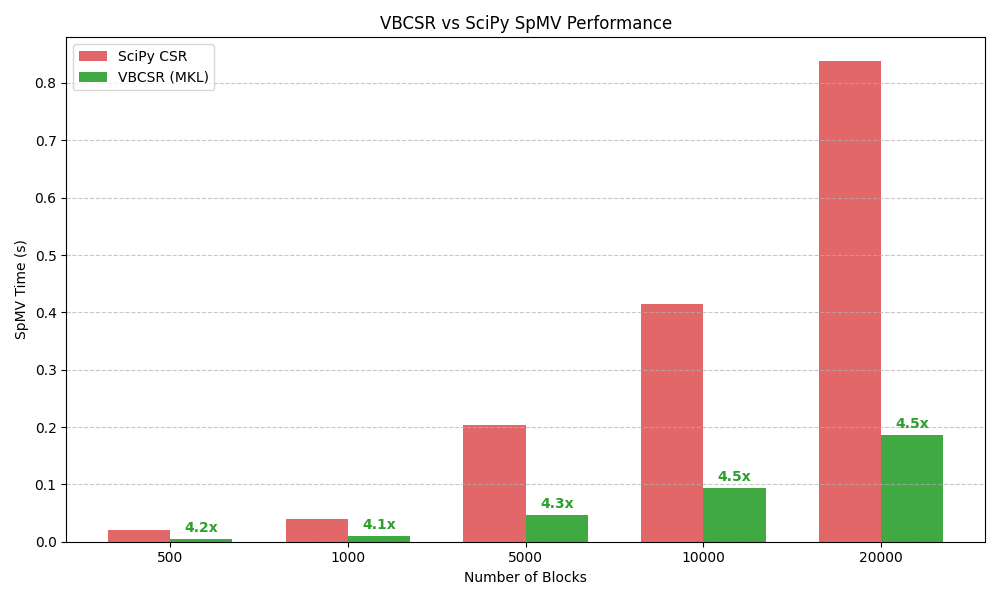
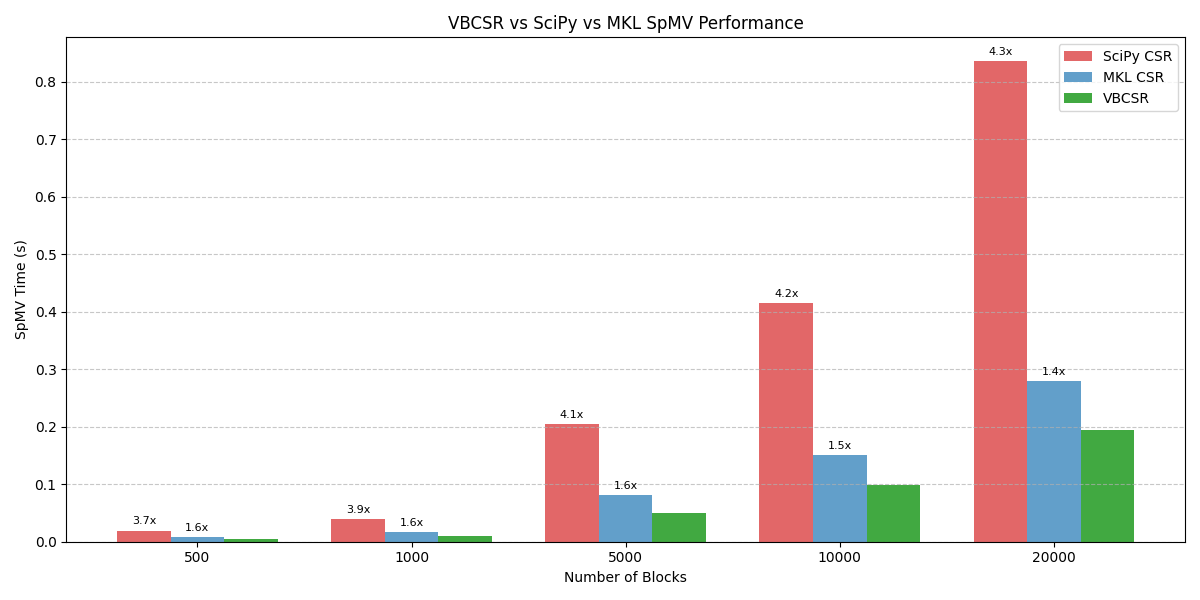
update benchmark to include direct MKL comparison

diff --git a/generate_benchmark_report.py b/generate_benchmark_report.py
@@ -9,13 +9,14 @@ def run_benchmark(blocks):
     if density * blocks**2 <= 1:
         density = 0.01
 
+    import sys
     cmd = [
-        "python", "tests/benchmark_large_scale.py",
+        sys.executable, "tests/benchmark_large_scale.py",
         "--blocks", str(blocks),
         "--min-block", "16",
         "--max-block", "20",
         "--density", str(density),
-        "--scipy"
+        "--scipy", "--mkl"
     ]
     env = os.environ.copy()
     env["PYTHONPATH"] = f"{env.get('PYTHONPATH', '')}:{os.getcwd()}:{os.getcwd()}/build"
@@ -26,50 +27,69 @@ def run_benchmark(blocks):
     # Parse output
     vbcsr_time = float(re.search(r"VBCSR Average SpMV Time: ([\d\.]+) s", output).group(1))
     scipy_time = float(re.search(r"SciPy Average SpMV Time: ([\d\.]+) s", output).group(1))
-    speedup = float(re.search(r"Speedup \(SciPy / VBCSR\): ([\d\.]+)x", output).group(1))
+    mkl_time = float(re.search(r"MKL Average SpMV Time: ([\d\.]+) s", output).group(1))
     
-    return vbcsr_time, scipy_time, speedup
+    scipy_speedup = float(re.search(r"Speedup \(SciPy / VBCSR\): ([\d\.]+)x", output).group(1))
+    mkl_speedup = float(re.search(r"Speedup \(MKL / VBCSR\): ([\d\.]+)x", output).group(1))
+    
+    return vbcsr_time, scipy_time, mkl_time, scipy_speedup, mkl_speedup
 
 def main():
     block_counts = [500, 1000, 5000, 10000, 20000]
     vbcsr_times = []
     scipy_times = []
-    speedups = []
+    mkl_times = []
+    scipy_speedups = []
+    mkl_speedups = []
     
     print("Running benchmarks...")
     for b in block_counts:
         print(f"  Blocks: {b}...", end="", flush=True)
-        vt, st, su = run_benchmark(b)
+        vt, st, mt, ss, ms = run_benchmark(b)
         vbcsr_times.append(vt)
         scipy_times.append(st)
-        speedups.append(su)
-        print(f" Done. Speedup: {su:.2f}x")
+        mkl_times.append(mt)
+        scipy_speedups.append(ss)
+        mkl_speedups.append(ms)
+        print(f" Done. SciPy Speedup: {ss:.2f}x, MKL Speedup: {ms:.2f}x")
         
     # Plotting
-    fig, ax = plt.subplots(figsize=(10, 6))
+    fig, ax = plt.subplots(figsize=(12, 6))
     
     x = np.arange(len(block_counts))
-    width = 0.35
+    width = 0.25
     
-    rects1 = ax.bar(x - width/2, scipy_times, width, label='SciPy CSR', color='tab:red', alpha=0.7)
-    rects2 = ax.bar(x + width/2, vbcsr_times, width, label='VBCSR (MKL)', color='tab:green', alpha=0.9)
+    rects1 = ax.bar(x - width, scipy_times, width, label='SciPy CSR', color='tab:red', alpha=0.7)
+    rects2 = ax.bar(x, mkl_times, width, label='MKL CSR', color='tab:blue', alpha=0.7)
+    rects3 = ax.bar(x + width, vbcsr_times, width, label='VBCSR', color='tab:green', alpha=0.9)
     
     ax.set_xlabel('Number of Blocks')
     ax.set_ylabel('SpMV Time (s)')
-    ax.set_title('VBCSR vs SciPy SpMV Performance')
+    ax.set_title('VBCSR vs SciPy vs MKL SpMV Performance')
     ax.set_xticks(x)
     ax.set_xticklabels(block_counts)
     ax.legend()
     ax.grid(True, axis='y', linestyle='--', alpha=0.7)
     
-    # Add speedup labels
-    for i, rect in enumerate(rects2):
-        height = rect.get_height()
-        ax.annotate(f'{speedups[i]:.1f}x',
-                    xy=(rect.get_x() + rect.get_width() / 2, height),
-                    xytext=(0, 3),  # 3 points vertical offset
-                    textcoords="offset points",
-                    ha='center', va='bottom', fontweight='bold', color='tab:green')
+    # Add speedup labels for VBCSR relative to others? Or just show times.
+    # Let's annotate VBCSR bars with speedup vs SciPy and MKL
+    # Actually, usually speedup is shown as text or separate plot.
+    # Let's just put speedup numbers on top of VBCSR bar?
+    # Or maybe just print them in table.
+    # Let's put speedup vs SciPy on top of SciPy bar, and vs MKL on top of MKL bar?
+    # No, speedup is usually X / VBCSR. So if SciPy is slower, speedup > 1.
+    
+    def autolabel(rects, speedups):
+        for i, rect in enumerate(rects):
+            height = rect.get_height()
+            ax.annotate(f'{speedups[i]:.1f}x',
+                        xy=(rect.get_x() + rect.get_width() / 2, height),
+                        xytext=(0, 3),
+                        textcoords="offset points",
+                        ha='center', va='bottom', fontsize=8)
+
+    autolabel(rects1, scipy_speedups)
+    autolabel(rects2, mkl_speedups)
 
     plt.tight_layout()
     plt.savefig('benchmark_performance.png')
@@ -78,18 +98,18 @@ def main():
     # Generate Markdown Report
     with open("benchmark_report.md", "w") as f:
         f.write("# VBCSR Performance Benchmark\n\n")
-        f.write("Comparison of Matrix-Vector Multiplication (SpMV) performance between `vbcsr` (with MKL) and `scipy.sparse.csr_matrix`.\n\n")
+        f.write("Comparison of Matrix-Vector Multiplication (SpMV) performance between `vbcsr`, `scipy.sparse.csr_matrix`, and `sparse_dot_mkl`.\n\n")
         f.write("## Test Configuration\n")
         f.write("- **Block Size**: Random [16, 20]\n")
         f.write("- **Density**: Adaptive (ensuring ~200 non-zeros per row)\n")
         f.write("- **Data Type**: float64\n")
         f.write("- **System**: Linux, MKL Backend\n\n")
         f.write("## Results\n\n")
-        f.write("| Blocks | Approx Rows | VBCSR Time (s) | SciPy Time (s) | Speedup |\n")
-        f.write("|--------|-------------|----------------|----------------|---------|\n")
+        f.write("| Blocks | Approx Rows | VBCSR (s) | SciPy (s) | MKL (s) | SciPy Speedup | MKL Speedup |\n")
+        f.write("|--------|-------------|-----------|-----------|---------|---------------|-------------|\n")
         for i, b in enumerate(block_counts):
             rows = b * 18 # Approx mean block size
-            f.write(f"| {b} | ~{rows} | {vbcsr_times[i]:.4f} | {scipy_times[i]:.4f} | **{speedups[i]:.2f}x** |\n")
+            f.write(f"| {b} | ~{rows} | {vbcsr_times[i]:.4f} | {scipy_times[i]:.4f} | {mkl_times[i]:.4f} | **{scipy_speedups[i]:.2f}x** | **{mkl_speedups[i]:.2f}x** |\n")
         
         f.write("\n## Visualization\n\n")
         f.write("![Benchmark Plot](benchmark_performance.png)\n")

diff --git a/tests/benchmark_large_scale.py b/tests/benchmark_large_scale.py
@@ -31,7 +31,15 @@ def main():
     parser.add_argument("--density", type=float, default=0.01, help="Sparsity density")
     parser.add_argument("--complex", action="store_true", help="Use complex numbers")
     parser.add_argument("--scipy", action="store_true", help="Compare with SciPy (Serial only)")
+    parser.add_argument("--mkl", action="store_true", help="Compare with MKL (Serial only)")
     args = parser.parse_args()
+
+    if args.mkl:
+        try:
+            import sparse_dot_mkl
+        except ImportError:
+            print("Error: sparse_dot_mkl not found. Please install it to use --mkl.")
+            return
 
     comm = MPI.COMM_WORLD
     rank = comm.Get_rank()
@@ -71,13 +79,13 @@ def main():
     mat = vbcsr.VBCSR.create_distributed(comm, owned_indices, my_block_sizes, my_adj, dtype)
     
     # Generate data and fill
-    # We also collect data for SciPy if needed
+    # We also collect data for SciPy/MKL if needed
     scipy_rows = []
     scipy_cols = []
     scipy_data = []
     
-    # Pre-calculate offsets for SciPy
-    if args.scipy and rank == 0:
+    # Pre-calculate offsets for SciPy/MKL
+    if (args.scipy or args.mkl) and rank == 0:
         row_offsets = np.zeros(args.blocks + 1, dtype=int)
         np.cumsum(block_sizes, out=row_offsets[1:])
     
@@ -89,11 +97,11 @@ def main():
         
         # Row offset for this block
         r_start = 0
-        if args.scipy:
-            # This is slow for distributed, but we assume --scipy is used mostly in serial
+        if args.scipy or args.mkl:
+            # This is slow for distributed, but we assume --scipy/--mkl is used mostly in serial
             # or we only collect on rank 0. 
             # Actually, constructing SciPy matrix in parallel is hard.
-            # We will only support SciPy comparison in serial (size=1).
+            # We will only support SciPy/MKL comparison in serial (size=1).
             if size == 1:
                 r_start = row_offsets[global_i]
 
@@ -106,7 +114,7 @@ def main():
             
             mat.add_block(global_i, global_j, data)
             
-            if args.scipy and size == 1:
+            if (args.scipy or args.mkl) and size == 1:
                 c_start = row_offsets[global_j]
                 # Expand block to COO
                 # This is heavy loop in python, might be slow for generation
@@ -144,8 +152,10 @@ def main():
     if rank == 0:
         print(f"VBCSR Average SpMV Time: {t_vbcsr:.6f} s ({n_iter} iterations)")
 
-    # SciPy Comparison
-    if args.scipy and size == 1:
+    # SciPy/MKL Matrix Construction
+    sp_mat = None
+    v_np = None
+    if (args.scipy or args.mkl) and size == 1:
         print("Building SciPy CSR...", flush=True)
         t0 = time.perf_counter()
         # Flatten lists
@@ -160,7 +170,9 @@ def main():
         print(f"SciPy Generation Time: {t_sp_gen:.4f} s")
         
         v_np = v.to_numpy()
-        
+
+    # SciPy Comparison
+    if args.scipy and size == 1:
         print("Benchmarking SciPy SpMV...", flush=True)
         t_start = time.perf_counter()
         n_iter_sp = 0
@@ -176,7 +188,32 @@ def main():
         res = mat.mult(v)
         res_sp = sp_mat.dot(v_np)
         diff = np.linalg.norm(res.to_numpy() - res_sp) / np.linalg.norm(res_sp)
-        print(f"Relative Difference: {diff:.2e}")
+        print(f"Relative Difference (SciPy): {diff:.2e}")
+
+    # MKL Comparison
+    if args.mkl and size == 1:
+        print("Benchmarking MKL SpMV...", flush=True)
+        
+        # Ensure matrix is in CSR format and sorted indices for MKL if needed, 
+        # but sparse_dot_mkl handles CSR.
+        # sparse_dot_mkl might need float32 or float64 specifically, check support.
+        # It supports float32, float64, complex64, complex128.
+        
+        t_start = time.perf_counter()
+        n_iter_mkl = 0
+        while time.perf_counter() - t_start < 1.0 or n_iter_mkl < 10:
+            sparse_dot_mkl.dot_product_mkl(sp_mat, v_np)
+            n_iter_mkl += 1
+        t_mkl = (time.perf_counter() - t_start) / n_iter_mkl
+        print(f"MKL Average SpMV Time: {t_mkl:.6f} s ({n_iter_mkl} iterations)")
+        
+        print(f"Speedup (MKL / VBCSR): {t_mkl / t_vbcsr:.2f}x")
+        
+        # Verify correctness
+        res = mat.mult(v)
+        res_mkl = sparse_dot_mkl.dot_product_mkl(sp_mat, v_np)
+        diff = np.linalg.norm(res.to_numpy() - res_mkl) / np.linalg.norm(res_mkl)
+        print(f"Relative Difference (MKL): {diff:.2e}")
 
 if __name__ == "__main__":
     main()
